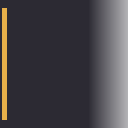
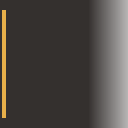
Сворачиваемая панель заданий, цвета интерфейса

Changed region(s): [[0.0, 0.0625, 0.0625, 0.9375]]

diff --git a/Assets/Game/Scripts/UI/QuestUIStyle.cs b/Assets/Game/Scripts/UI/QuestUIStyle.cs
@@ -15,7 +15,7 @@ public static class QuestUIStyle
     static readonly Color Gold = new Color(0.91f, 0.69f, 0.29f);
     static readonly Color Cream = new Color(1f, 0.97f, 0.92f);
     static readonly Color Muted = new Color(0.80f, 0.77f, 0.72f);
-    static readonly Color Dark = new Color(0.055f, 0.047f, 0.08f, 0.88f);
+    static readonly Color Dark = new Color(0.07f, 0.055f, 0.05f, 0.86f);   // тёплый тёмный, как войлок ночью
 
     [RuntimeInitializeOnLoadMethod(RuntimeInitializeLoadType.AfterSceneLoad)]
     static void Init()
@@ -42,6 +42,7 @@ public static class QuestUIStyle
             Answer(root.Find("QuizPanel_Food"), "ezhe", "Эже", Loc.T("мастерица кухни", "master cook"));
             Banner(root.Find("QuestCompleteBanner"));
             Hud(root.Find("LeftHud"));
+            Chips(root);
         }
     }
 
@@ -231,12 +232,29 @@ public static class QuestUIStyle
             img.sprite = card; img.type = Image.Type.Sliced; img.color = new Color(1f, 1f, 1f, 0.92f);
             NoFrame(c.gameObject);
         }
+        foreach (TMP_Text t in hud.GetComponentsInChildren<TMP_Text>(true)) t.color = Cream;
         Transform qc = hud.Find("QuestCard");
         if (qc == null) return;
         Transform head = qc.Find("QuestHeader");
         if (head != null && head.TryGetComponent(out TMP_Text ht)) { ht.color = Gold; ht.fontStyle = FontStyles.Bold; ht.characterSpacing = 6f; }
-        foreach (TMP_Text t in qc.GetComponentsInChildren<TMP_Text>(true))
-            if (t.transform != head) t.color = Cream;
+        if (qc.GetComponent<QuestCardToggle>() == null) qc.gameObject.AddComponent<QuestCardToggle>();
+    }
+
+    // ------------------------------------------------------------------ остальные плашки (XP, часы, сообщения, подсказка E)
+
+    static void Chips(Transform root)
+    {
+        Sprite chip = Load("MURAS/Dialog/chip", new Vector4(22f, 18f, 22f, 18f));
+        foreach (string n in new[] { "XPBadge", "Clock", "MessageToast", "InteractionHintPanel" })
+        {
+            Transform t = root.Find(n);
+            if (t == null || !t.TryGetComponent(out Image img)) continue;
+            img.sprite = chip; img.type = Image.Type.Sliced; img.color = Color.white;
+            NoFrame(t.gameObject);
+            foreach (TMP_Text x in t.GetComponentsInChildren<TMP_Text>(true)) x.color = Cream;
+        }
+        Transform xp = root.Find("XPBadge/XPText");
+        if (xp != null && xp.TryGetComponent(out TMP_Text xt)) xt.color = new Color(1f, 0.86f, 0.55f);
     }
 }
 
@@ -262,5 +280,74 @@ public class BustMotion : MonoBehaviour
         rt.anchoredPosition = home + new Vector2(-(1f - ease) * 60f, breathe * 1.5f);
         rt.localScale = Vector3.one * (1f + breathe * 0.006f);
         if (img != null) { Color c = img.color; c.a = ease; img.color = c; }
+    }
+}
+
+/// <summary>
+/// Список заданий можно свернуть: клавиша K (квест) или клик по заголовку «ЗАДАНИЕ».
+/// В свёрнутом виде остаётся только заголовок со счётчиком заданий. Состояние запоминается.
+/// </summary>
+public class QuestCardToggle : MonoBehaviour
+{
+    public KeyCode key = KeyCode.K;
+    private const string Pref = "MURAS_QuestCardCollapsed";
+
+    private bool collapsed;
+    private TMP_Text header;
+
+    void Start()
+    {
+        collapsed = PlayerPrefs.GetInt(Pref, 0) == 1;
+        Transform h = transform.Find("QuestHeader");
+        if (h != null)
+        {
+            header = h.GetComponent<TMP_Text>();
+            foreach (var lt in h.GetComponents<LocalizedText>()) lt.enabled = false;   // заголовок теперь пишем сами
+            header.raycastTarget = true;
+            var b = h.GetComponent<Button>() ?? h.gameObject.AddComponent<Button>();
+            b.transition = Selectable.Transition.None;
+            b.onClick.AddListener(Toggle);
+        }
+    }
+
+    public void Toggle()
+    {
+        collapsed = !collapsed;
+        PlayerPrefs.SetInt(Pref, collapsed ? 1 : 0);
+        GameAudio.Interact();
+    }
+
+    void Update()
+    {
+        if (Input.GetKeyDown(key) && Modal.Free && !TypingInField()) Toggle();
+    }
+
+    static bool TypingInField()
+    {
+        var es = UnityEngine.EventSystems.EventSystem.current;
+        return es != null && es.currentSelectedGameObject != null && es.currentSelectedGameObject.GetComponent<TMP_InputField>() != null;
+    }
+
+    void LateUpdate()
+    {
+        int count = 0;
+        foreach (Transform c in transform)
+        {
+            if (c.name == "QuestHeader") continue;
+            TMP_Text t = c.GetComponent<TMP_Text>();
+            bool hasText = t != null && c.gameObject.activeSelf && !string.IsNullOrWhiteSpace(t.text);
+            if (hasText) count++;
+
+            var le = c.GetComponent<LayoutElement>() ?? c.gameObject.AddComponent<LayoutElement>();
+            if (le.ignoreLayout != collapsed) le.ignoreLayout = collapsed;
+            if (t != null && t.enabled == collapsed) t.enabled = !collapsed;
+        }
+
+        if (header != null)
+        {
+            string title = Loc.T("ЗАДАНИЯ", "QUESTS");
+            string state = collapsed ? (count > 0 ? "  <color=#F5EBDA>" + count + "</color>" : "") : "";
+            header.text = title + state + "   <size=75%><color=#9C9283>[K] " + (collapsed ? "+" : "–") + "</color></size>";
+        }
     }
 }

diff --git a/Assets/Game/Scripts/UI/SpeechPanel.cs b/Assets/Game/Scripts/UI/SpeechPanel.cs
@@ -127,7 +127,7 @@ public class SpeechPanel : MonoBehaviour
         {
             bg.sprite = Load("MURAS/Dialog/strip");
             bg.type = Image.Type.Simple;
-            bg.color = new Color(0.055f, 0.047f, 0.08f, 0.84f);
+            bg.color = new Color(0.07f, 0.055f, 0.05f, 0.86f);
         }
         foreach (Outline o in GetComponents<Outline>()) o.enabled = false;
         foreach (Shadow s in GetComponents<Shadow>()) s.enabled = false;

diff --git a/Assets/Game/Editor/DialogTestMenu.cs b/Assets/Game/Editor/DialogTestMenu.cs
@@ -53,4 +53,12 @@ public static class DialogTestMenu
             var cg = t.GetComponent<CanvasGroup>(); if (cg != null) cg.alpha = 1f;
         }
     }
+
+    [MenuItem("Tools/Diploma/Play Mode: Fun/Quest UI: Collapse or expand quests (K)")]
+    static void G()
+    {
+        if (!Application.isPlaying) return;
+        var t = Object.FindAnyObjectByType<QuestCardToggle>();
+        if (t != null) t.Toggle();
+    }
 }
